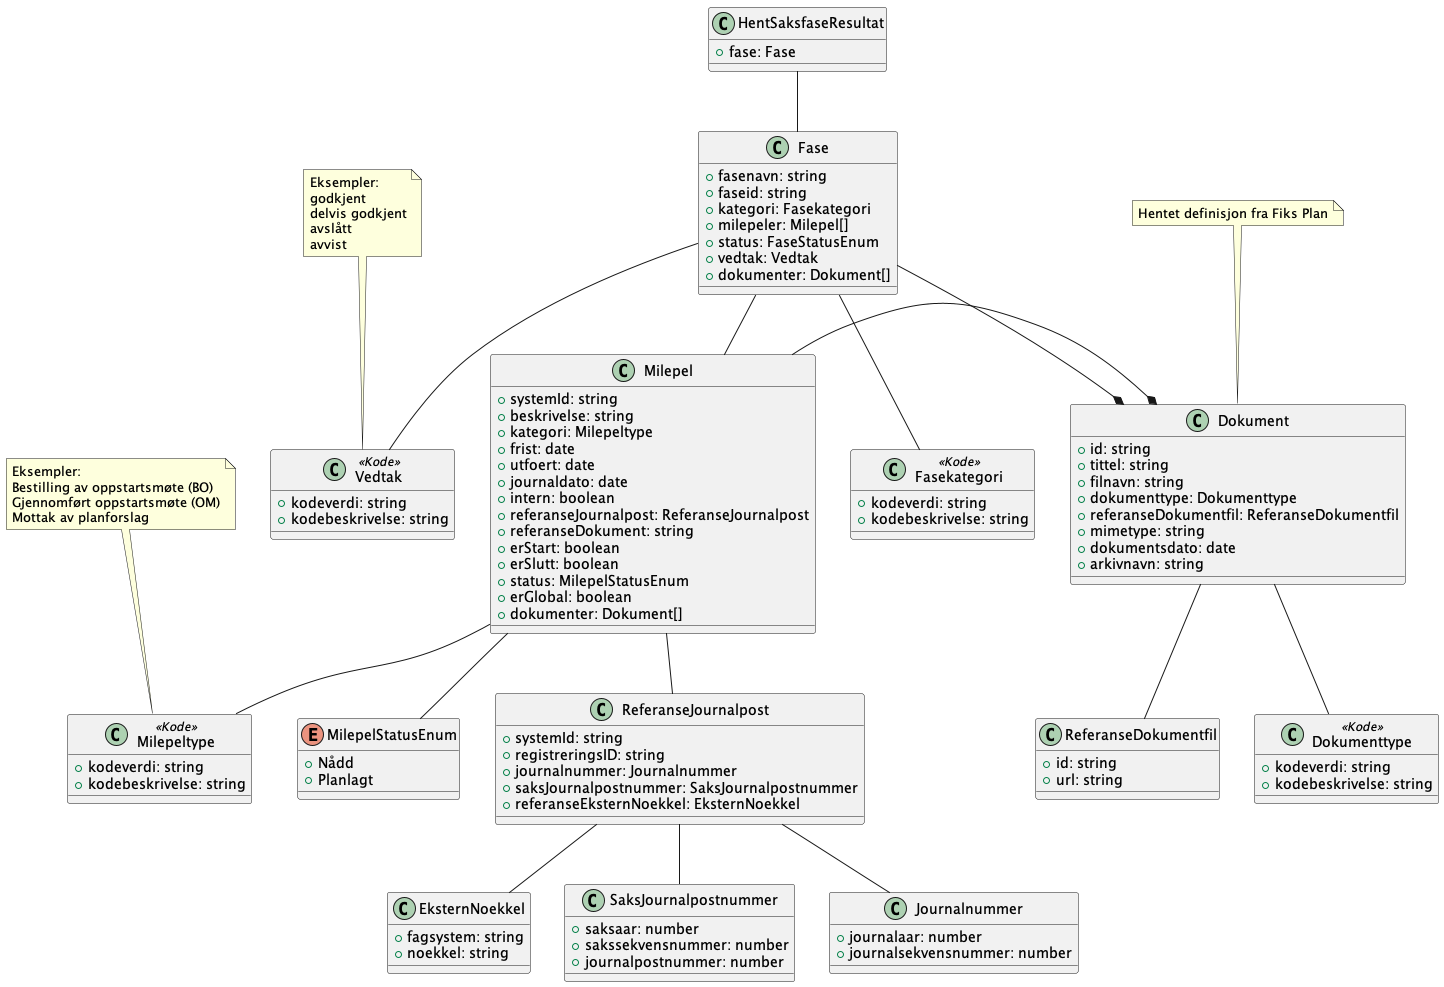
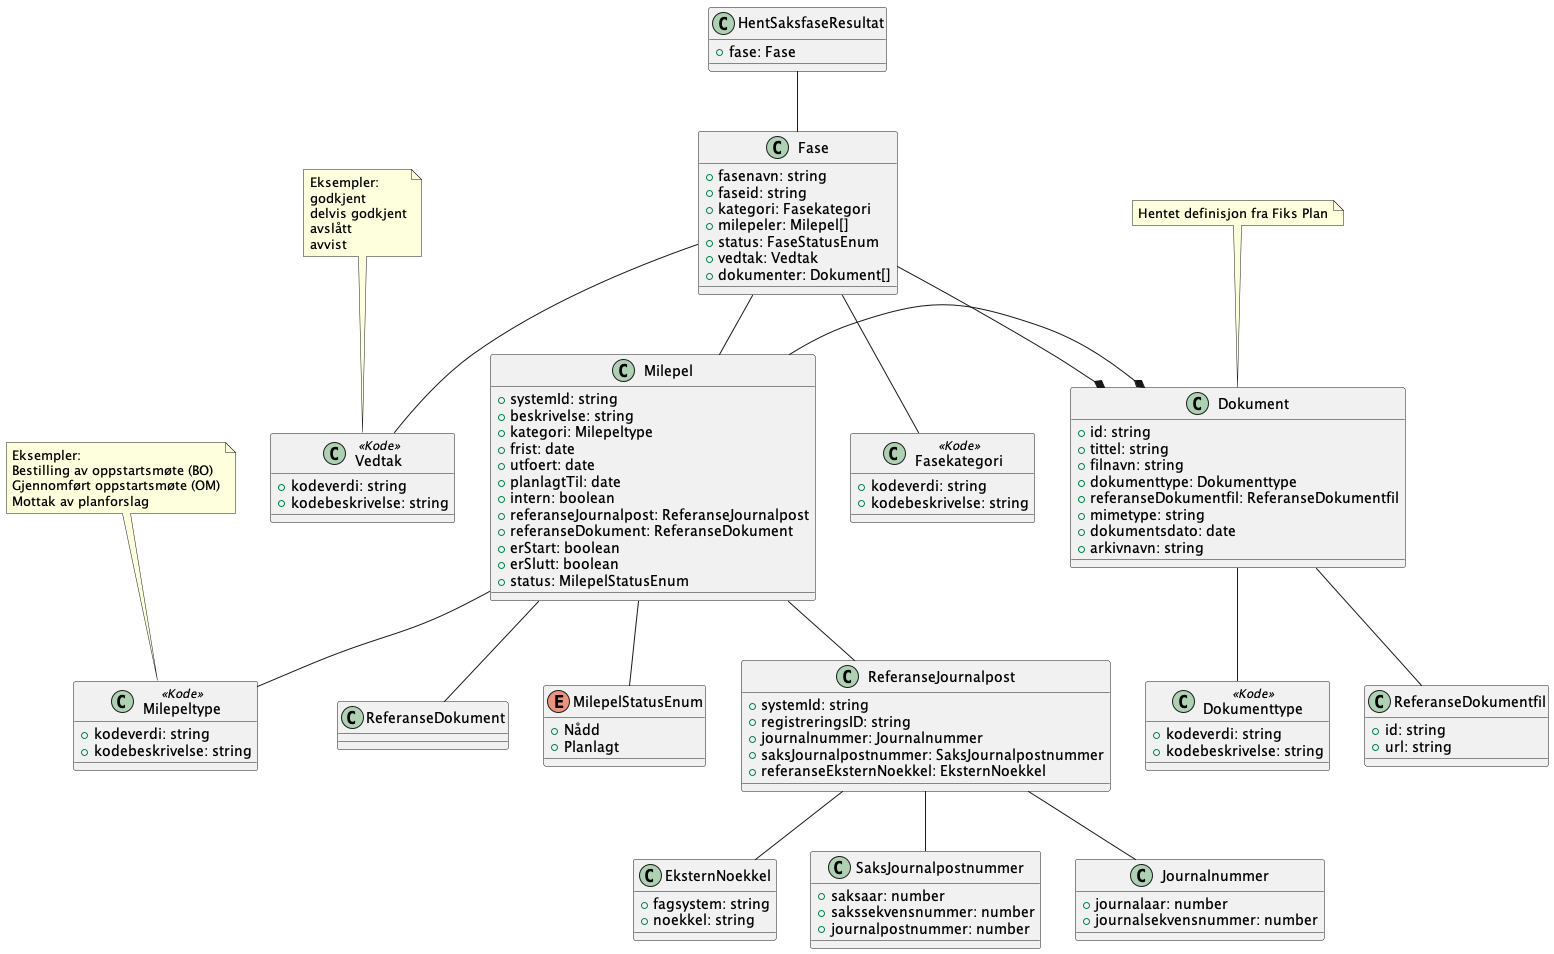
Oppdatert README og modeller etter møte 16.10.24

diff --git a/README.md b/README.md
@@ -48,6 +48,16 @@ T- jener vil kun gi offentlige data, ikke skjermet data.
 - Vedtak på fase kom opp igjen. Vi laget et issue her som vi får dokumentert svar på og jeg tar det inn i dokumentasjonen: https://github.com/ks-no/fiks-saksfaser-specification/issues/5
 - Vi kom fram til at vi trenger å få invitert med de som jobber med NPS for å få avklart flere ting etter høstferien.
 
+#### Fra møtet 16.10.2024
+Vi så noen endringer vi ønsker å gjøre på Milepel:
+- Ta bort Journaldato. Dette finner man via ReferanseJournalpost
+- referanseDokument kan ikke være en string, men bør være et objekt slik som i Fiks Arkiv
+- Rekkefølgen faser kommer i listen i SaksfaserHentResultat er rekkefølgen fasene har.
+- Ta bort erGlobal
+- Legge til planlagtTil - dato
+- Ta bort listen med dokumenter da dette kan hentes via Fiks Arkiv i stedet
+
+
 ### Wiki
 
 Det er opprettet og begynt på en Wiki for Fiks Saksfaser.
@@ -73,6 +83,7 @@ _Schemas er ikke oppdatert. Se klassediagram under for innspill_
 - Milepel inneholder mulighetene for å gi en liste med dokumenter. Dette er fordi vi gjenbruker milepel objektetet for hent faser og hent en enkelt fase.
 - Dokumenter vil være ikke påkrevd under milepel eller fase.
 - Milepeler er liste under fase. Kan være 2, start og slutt, eller flere. Alt etter brukstilfelle.
+- Rekkefølgen for fasene er rekkefølgen de er i listen over faser i SaksfaserHentResultat
 
 #### Melding - Hent saksfase
 
